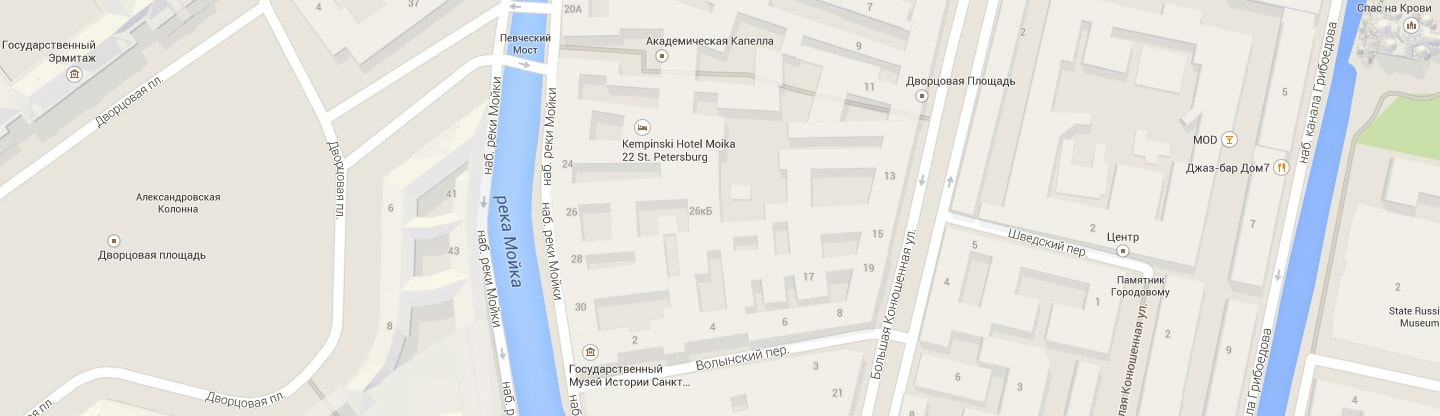
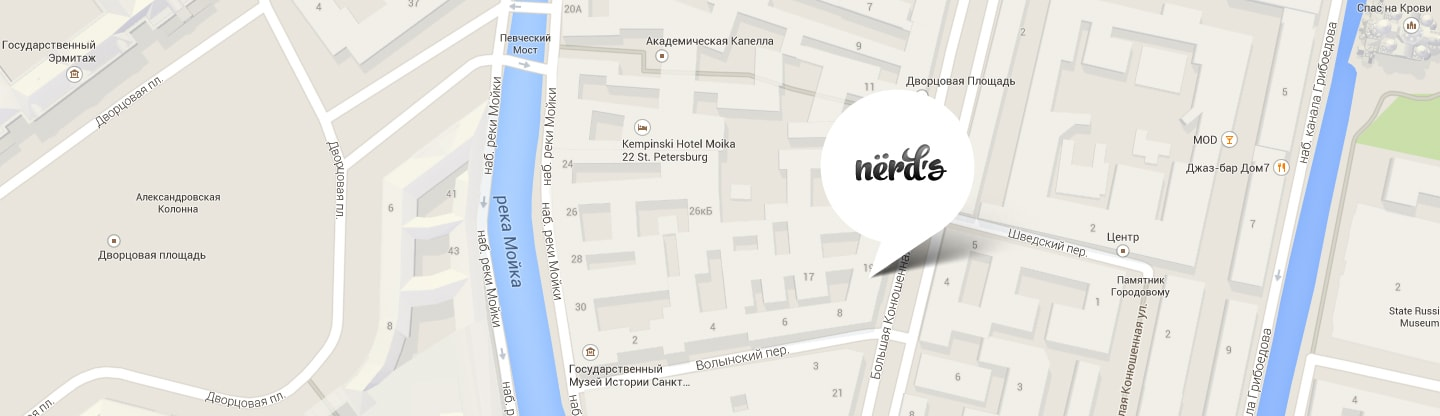
Всё исправил
и добавил карту

Changed region(s): [[0.5625, 0.2188, 0.6875, 0.6875]]

diff --git a/catalog.html b/catalog.html
@@ -7,8 +7,8 @@
 <body>
   <header class="main-header">
     <nav class="main-navigation">
-      <a class="header-logo">
-        <a href="index.html"><img src="img/nerds-logo.svg" width="160" height="65" alt="Логотип веб-студии nerds"></a>
+      <a class="header-logo" href="index.html">
+        <img src="img/nerds-logo.svg" width="160" height="65" alt="Логотип веб-студии nerds">
       </a>
       <ul class="header-navigation-items">
         <li class="header-navigation-item"><a class="header-navigation-link" href="">студия</a></li>
@@ -27,9 +27,10 @@
 
     <section class="options">
       <form class="sorting-form" action="" method="post">
+
         <fieldset class="price">
-          <label for="price-bar">Стоимость:</label><br>
-          <input type="range" id="price-bar" min="0" max="15000" step="500">
+          <legend>стоимость:</legend><br>
+          <input type="range" min="0" max="15000" step="500">
             <div class="min-max">
               <label>от
                 <input type="text" value="0">
@@ -42,18 +43,18 @@
 
         <fieldset class="grid-box">
           <legend>сетка:</legend>
-          <input type="radio" name="radio" value="adaptive" id="adaptive" checked>
-					<label for="adaptive">Адаптивная</label>
+          <input type="radio" name="grid-box-radio" value="adaptive" id="grid-box-adaptive" checked>
+					<label for="grid-box-adaptive">Адаптивная</label>
           <br>
-          <input type="radio" name="radio" value="fixed" id="fixed">
-          <label for="fixed">Фиксированная</label>
+          <input type="radio" name="grid-box-radio" value="fixed" id="grid-box-fixed">
+          <label for="grid-box-fixed">Фиксированная</label>
           <br>
-          <input type="radio" name="radio" value="stretched" id="stretched">
-          <label for="stretched">Резиновая</label>
+          <input type="radio" name="grid-box-radio" value="stretched" id="grid-box-stretched">
+          <label for="grid-box-stretched">Резиновая</label>
         </fieldset>
 
         <fieldset class="features-box">
-          <legend>Особенности:</legend>
+          <legend>особенности:</legend>
           <input type="checkbox" name="checkbox-slider" id="checkbox-slider" value="checkbox-slider" checked>
           <label for="checkbox-slider">Слайдер</label>
           <br>

diff --git a/index.html b/index.html
@@ -113,7 +113,7 @@
         </section>
 
         <section class="map">
-          <img class="map" src="img/map.svg" alt="карта">
+          <img src="img/map-min.jpg" alt="карта">
           <section class="contacts">
             <p>NЁRDS DESIGN STUDIO</p>
             <p>191186, Санкт-Петербург,<br>ул. Б. Конюшенная, д. 19/8</p>
